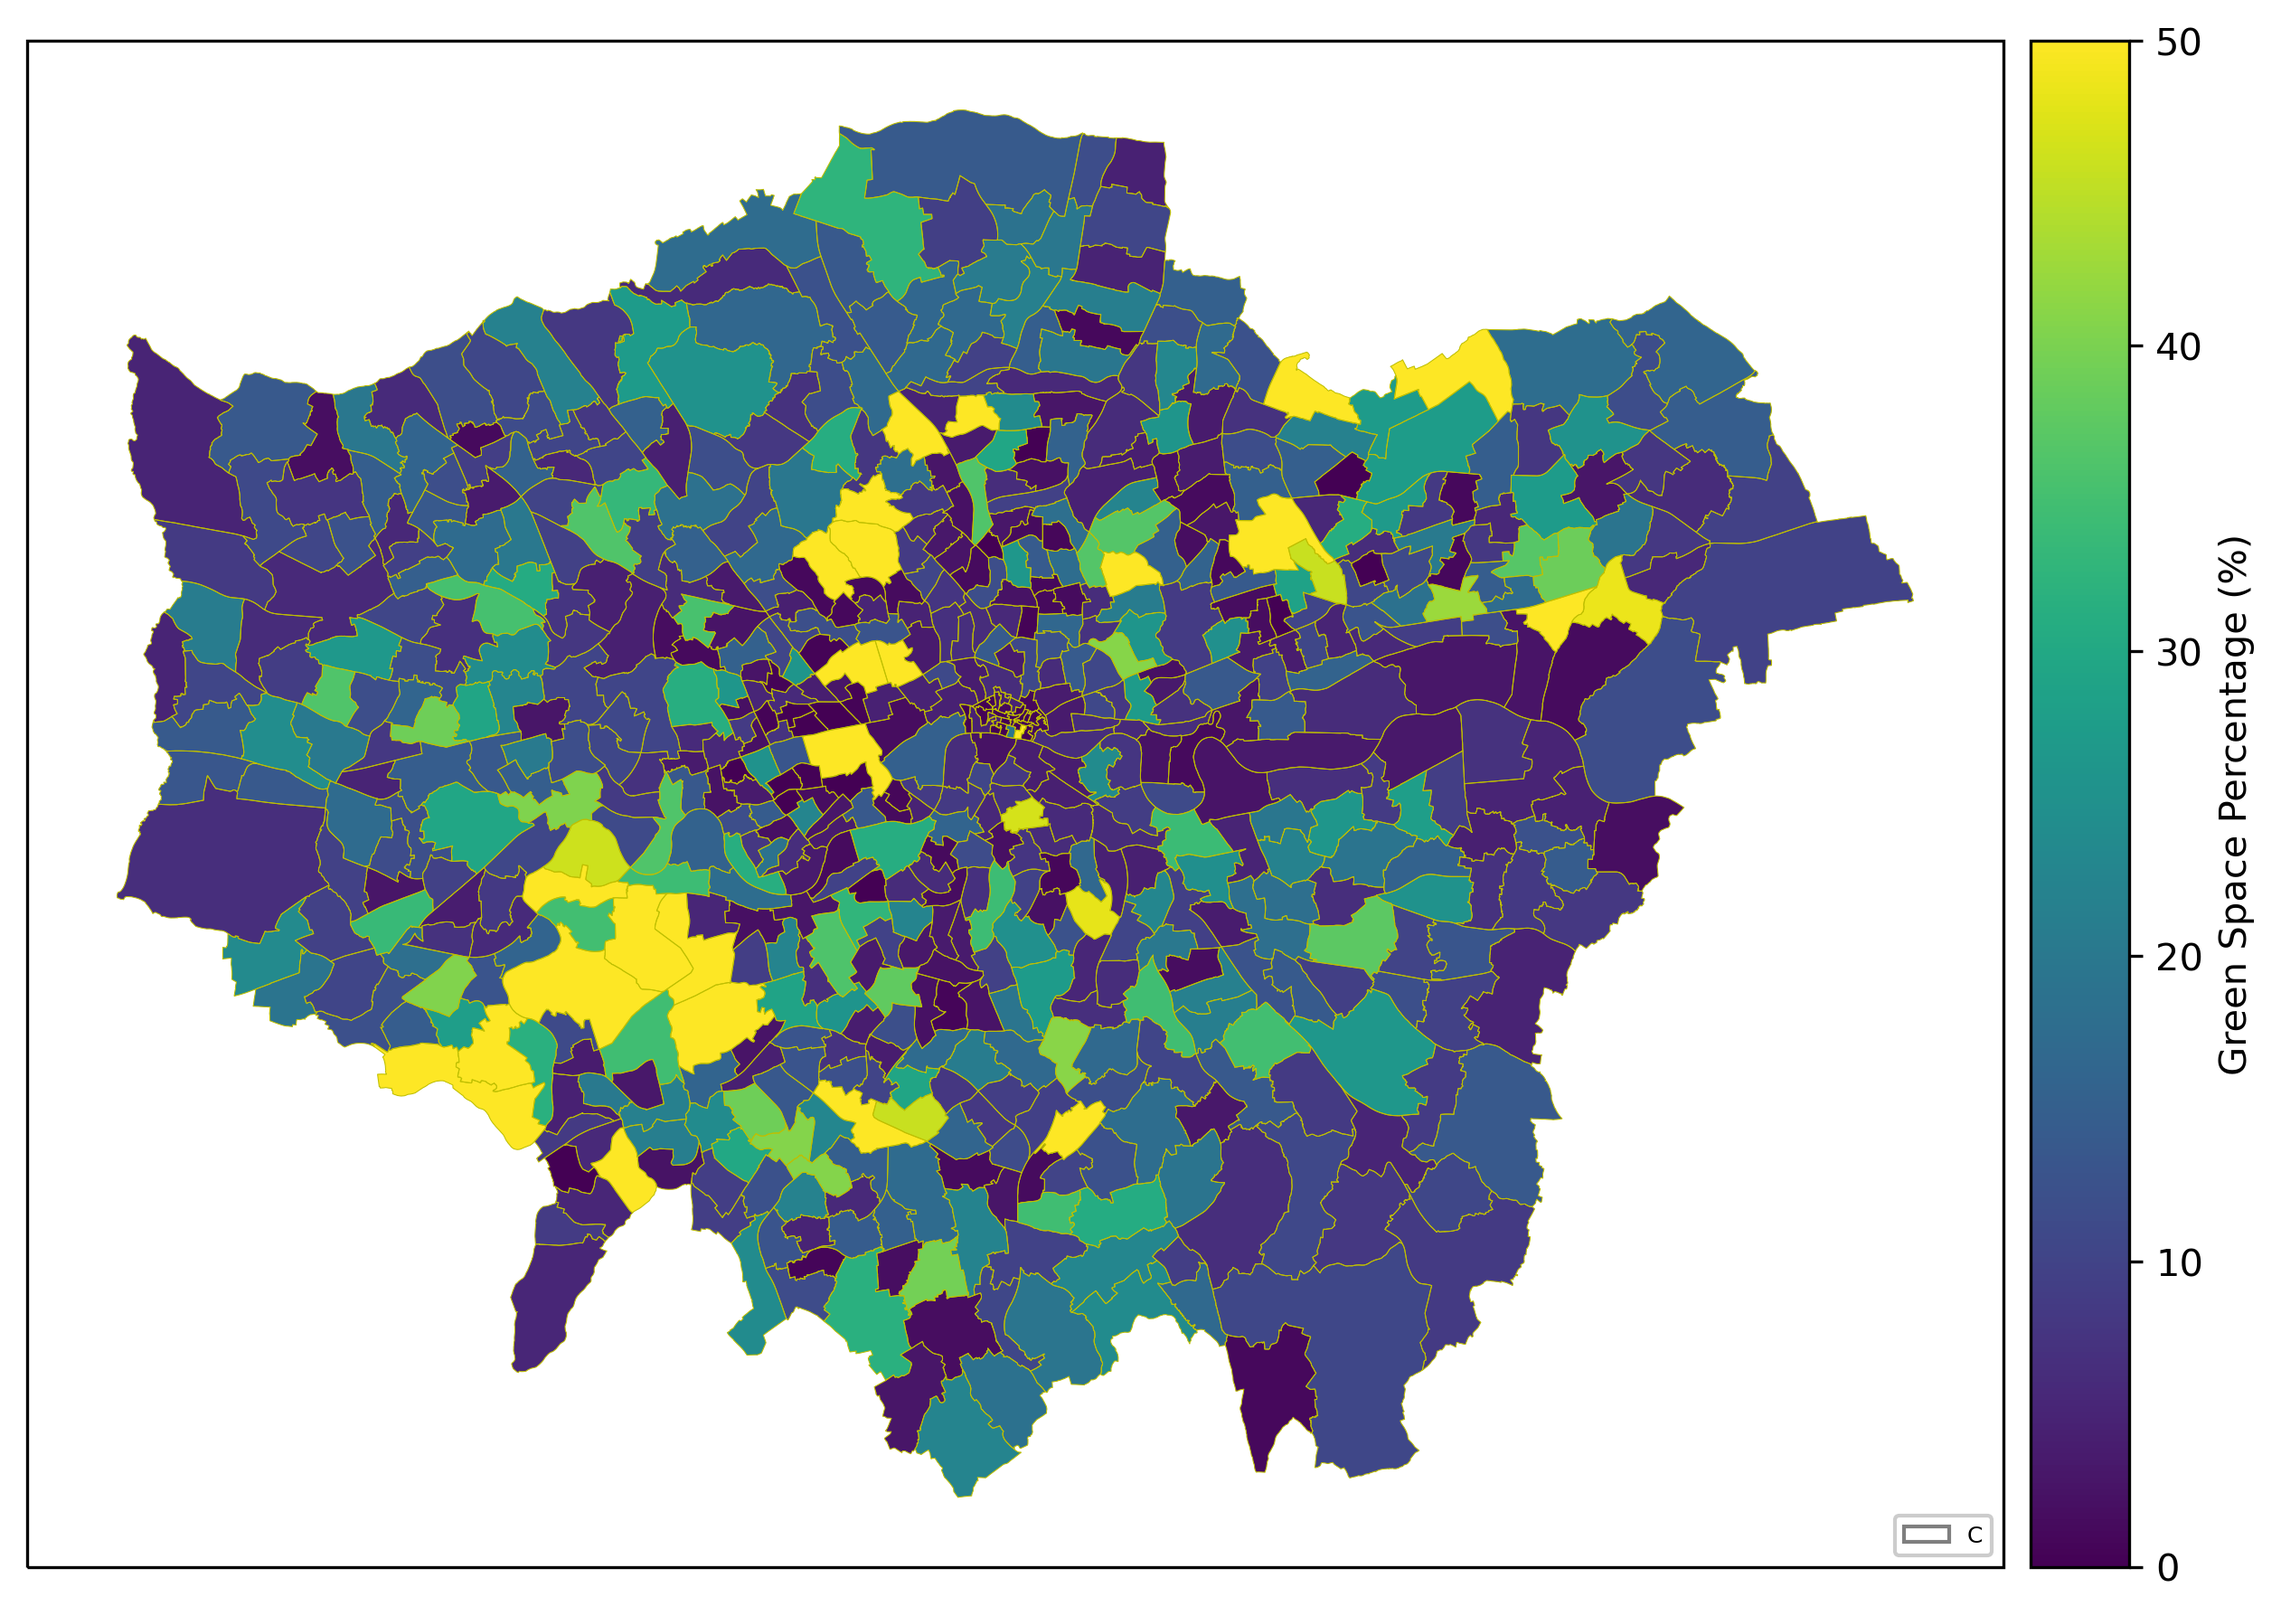
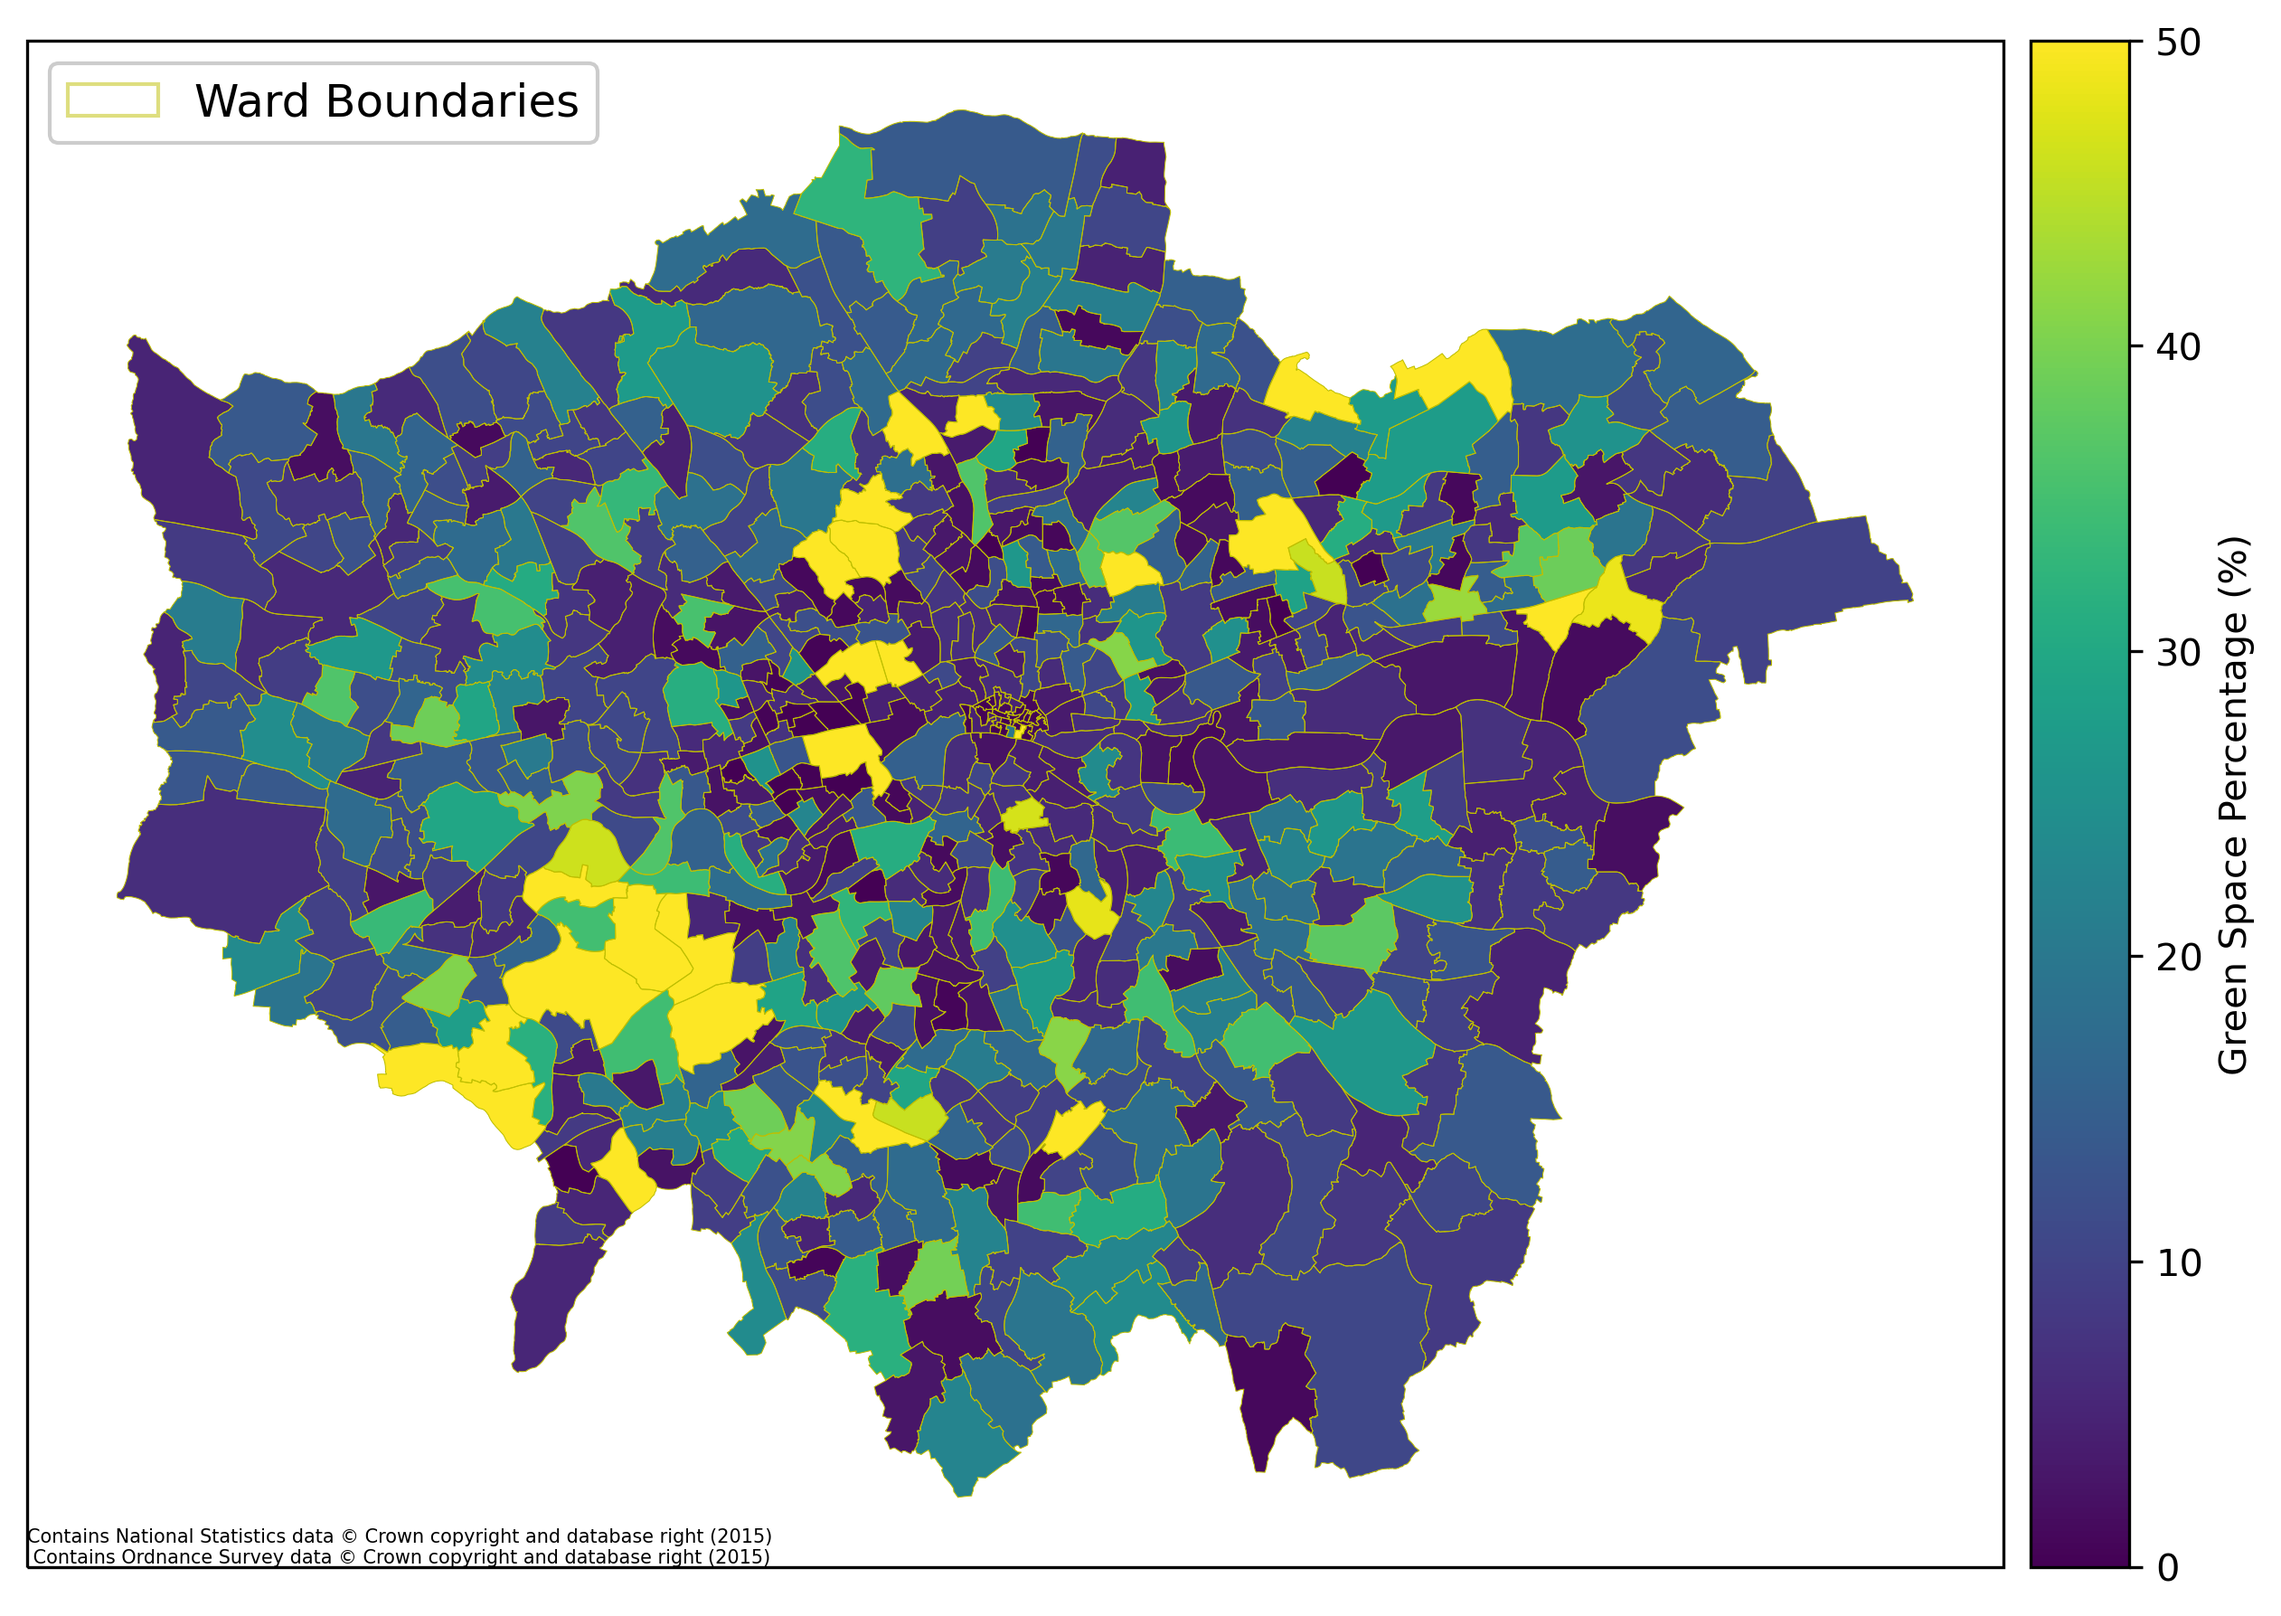
Map output working

Changed region(s): [[0.0309, 0.0308, 0.2782, 0.0923], [0.0309, 0.9233, 0.3401, 0.9849], [0.8347, 0.9233, 0.8656, 0.9541]]

diff --git a/Project Code Part 1.py b/Project Code Part 1.py
@@ -64,12 +64,13 @@ joined = wards.set_index('NAME').join(gs_sum.rename('Total GS Area'))
 for i, row in joined.iterrows():
     joined.loc[i, 'gs_percent'] = ((row['Total GS Area'] / row['area_calc']) * 100)
 
+# 3.5.1 Show/hide table in output
 print(joined.head(10))
 
-# save shapefile with calculated columns
-joined.to_file("Output/joined.shp")
+# 3.6 save shapefile with calculated columns
+# joined.to_file("Output/joined.shp")
 
-# Output green space percentage to a map
+# 4 Output green space percentage to a map
 
 plt.ion() # make the plotting interactive
 
@@ -110,11 +111,19 @@ county_handles = generate_handles([''], ['none'], edge='y')
 
 ax.legend(county_handles, ['Ward Boundaries'], fontsize=12, loc='upper left', framealpha=1)
 
+'''
 copyright_info = generate_handles([''], ['none'])
 
 ax.legend(copyright_info, 'Contains National Statistics data © Crown copyright and database right (2015) \n '
                            'Contains Ordnance Survey data © Crown copyright and database right (2015)',
                             fontsize=6, loc='lower right', framealpha=1)
+'''
+ax.text(0, 0, 'Contains National Statistics data © Crown copyright and database right (2015) \n '
+                           'Contains Ordnance Survey data © Crown copyright and database right (2015)',
+        verticalalignment ='bottom',
+        horizontalalignment ='left',
+        transform = ax.transAxes,
+        fontsize = 5)
 
-# save the figure
+# 4.1 save the figure
 fig.savefig('Output/sample_map.png', dpi=300, bbox_inches='tight')

diff --git a/README.md b/README.md
@@ -1,2 +1,26 @@
 # EGM722-Project
 Automated classification and calculation of greenspace in London Electoral wards
+
+The steps outlined in this document correspond to the numbering found in the python code, preceded by a hash (#) symbol
+
+Part 1
+
+1. Import the required modules. These are used to perform the operations and have already been listed in the setup and 
+2. installation section above
+3. Load shapefiles and prepare for analysis. 
+2.1.	Load datasets (wards and green_space), found in the data_files folder. 
+2.2.	Green space shapefile converted to the same CRS as that of the wards (BNG, EPSG: 27700). 
+2.2.1.	 Verification performed to check that both files have the same CRS, with an output displaying this as “CRS matches: True/False”.
+2.3.	Green space shapefile (green_space) clipped to the study area (wards) to streamline the calculation. The clipped file is named green_clip.
+4. Calculations
+3.1.	Calculate the area of each ward. This step will add a new column to the wards geodataframe named area_calc.
+3.1.1.	 As a means of knowing the program’s progress, and to verify that a new column has been added to the wards geodataframe can be displayed/hidden in the output by removing/adding the hash (#) before the line of code.
+3.2.	Calculate the area of green space areas in each ward and add a new column to the wards table named GS_Area. (This may take some time)
+3.2.1.	 Again, the updated geodataframe can be displayed by removing the # before the line of code
+3.3.	The calculated green space in each ward is summed and output to gs_sum.
+3.4.	gs_sum is combined with wards as a new table named joined.
+3.5.	The percentage of total area that is green space is then calculated and added to the joined table as a new column named gs_percent.
+3.5.1.	 Check progress if necessary by removing # from line
+3.6.	Save the joined shapefile to the Output folder (optional)
+5. Plot green space percentages on a map
+4.1.	Save the map in the Output folder
